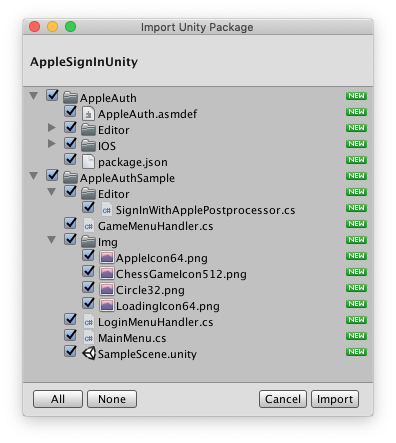
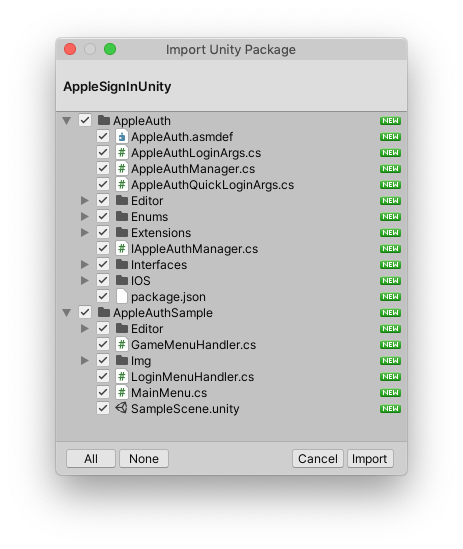
Updates README and CHANGELOG. Enhances deserialization fix method.

Changed region(s): [[0.0303, 0.0293, 0.9697, 0.9684]]

diff --git a/AppleAuth/IOS/NativeMessages/SerializationTools.cs b/AppleAuth/IOS/NativeMessages/SerializationTools.cs
@@ -22,13 +22,12 @@ namespace AppleAuth.IOS.NativeMessages
         
         internal static void FixSerializationForFullPersonName(ref FullPersonName originalFullPersonName)
         {
-            if (string.IsNullOrEmpty(originalFullPersonName.NamePrefix) && 
-                string.IsNullOrEmpty(originalFullPersonName.GivenName) && 
-                string.IsNullOrEmpty(originalFullPersonName.MiddleName) &&
-                string.IsNullOrEmpty(originalFullPersonName.FamilyName) &&
-                string.IsNullOrEmpty(originalFullPersonName.NameSuffix) &&
-                string.IsNullOrEmpty(originalFullPersonName.Nickname) &&
-                originalFullPersonName.PhoneticRepresentation == null)
+            if (string.IsNullOrEmpty(originalFullPersonName._namePrefix) && 
+                string.IsNullOrEmpty(originalFullPersonName._givenName) && 
+                string.IsNullOrEmpty(originalFullPersonName._middleName) &&
+                string.IsNullOrEmpty(originalFullPersonName._familyName) &&
+                string.IsNullOrEmpty(originalFullPersonName._nameSuffix) &&
+                string.IsNullOrEmpty(originalFullPersonName._nickname))
             {
                 originalFullPersonName = default(FullPersonName);
             }

diff --git a/CHANGELOG.md b/CHANGELOG.md
@@ -4,32 +4,30 @@
 ### Added
 - Adds a CHANGELOG.md file
 - Adds new v2 diagram files (`.drawio` and `.png`)
-- Adds structure containing arguments for Quick Login `AppleAuthQuickLoginArgs`.
-The structure contains an optional `Nonce`.
-- Adds structure containing arguments for Normal Login `AppleAuthLoginArgs`.
-The structure contains the mandatory `LoginOptions` an optional `Nonce`.
-- Adds support in native code to receive and set a `Nonce` for
-the Authorization Requests in both Quick Login and Sign in With Apple
+- Adds `AppleAuthQuickLoginArgs` struct containing arguments for Quick Login. (With optional `Nonce`)
+- Adds `AppleAuthLoginArgs` structure containing arguments for Normal Login like `LoginOptions`. (With optional `Nonce`)
+- Adds support in native code to receive and set a `Nonce` for the Authorization Requests in both Quick Login and Sign in With Apple
 - Adds `Update` method to `IAppleAuthManager` to update pending callbacks
 - Better API version handling in native objective-c code
 
 ### Changed
-- `QuickLogin` now requires a `AppleAuthQuickLoginArgs` to perform the call
-- `LoginWithAppleId` now requires a `AppleAuthLoginArgs` to perform the call
-- Updates main package file to include both `CHANGELOG.md` and `CHANGELOG.md.meta files`
-- Updates the sample project to better resemble the expected Apple flow
-- Updates README.md with up to date documentation
-- `AppleAuthManager` no longer requires a Scheduler, the scheduling is built in
-in the manager instance with the method `Update`
-- Some classes moved from `AppleAuth.IOS` to `AppleAuth` namespace
+- Namespace `AppleAuth.IOS` becomes `AppleAuth`
 - Namespace `AppleAuth.IOS.Enums` becomes `AppleAuth.Enums`
 - Namespace `AppleAuth.IOS.Extensions` becomes `AppleAuth.Extensions`
 - Namespace `AppleAuth.IOS.Interfaces` becomes `AppleAuth.Interfaces`
 - Namespace `AppleAuth.IOS.Interfaces` becomes `AppleAuth.Interfaces`
 
+- `QuickLogin` now requires a `AppleAuthQuickLoginArgs` to perform the call. Other `QuickLogin` method marked as obsolete.
+- `LoginWithAppleId` now requires a `AppleAuthLoginArgs` to perform the call. Other `LoginWithAppleId` method marked as obsolete.
+- `AppleAuthManager` no longer requires a Scheduler, the scheduling is built in the manager instance with the method `Update`
+- When receiving a completely empty `FullPersonName`, the instance is cleared after deserialization.
+
+- Updates main package file to include both `CHANGELOG.md` and `CHANGELOG.md.meta files`
+- Updates the sample project to better resemble the expected Apple flow
+- Updates README.md with up to date documentation
+
 ### Removed
-- Removes Schedulers to simplify the callback handling. Now only an `Update`
-call is required to be made to the `AppleAuthManager` instance in order to execute response callbacks.
+- Removes Schedulers to simplify the callback handling. `Update` call was moved to `IAppleAuthManager`.
 
 ## [1.0.0] - 2020-01-23
 - No plugin code changes. Just making the v1.0.0 release. No more "preview package"

diff --git a/README.md b/README.md
@@ -72,7 +72,6 @@ Sign in with Apple in order to get approved for the App Store, making it **manda
 - Supports setting custom Nonce for authorization requests when Signing In, and attempting a Quick Login.
 - NSError mapping so no details are missing.
 - NSPersonNameComponents support (for ALL different styles).
-- Customizable callback execution (Immediate or On Demand in an Update loop f.ex)
 - Customizable serialization (uses Unity default serialization, but you can add your own implementation)
 
 ## Installation
@@ -191,10 +190,14 @@ private IAppleAuthManager appleAuthManager;
 void Start()
 {
     ...
-    // Creates a default JSON deserializer, to transform JSON Native responses to C# instances
-    var deserializer = new PayloadDeserializer();
-    // Creates an Apple Authentication manager with the deserializer
-    this.appleAuthManager = new AppleAuthManager(deserializer);
+   // If the current platform is supported
+   if (AppleAuthManager.IsCurrentPlatformSupported)
+   {
+       // Creates a default JSON deserializer, to transform JSON Native responses to C# instances
+       var deserializer = new PayloadDeserializer();
+       // Creates an Apple Authentication manager with the deserializer
+       this.appleAuthManager = new AppleAuthManager(deserializer);    
+   }
     ...
 }
 
@@ -203,7 +206,10 @@ void Update()
     ...
     // Updates the AppleAuthManager instance to execute
     // pending callbacks inside Unity's execution loop
-    this.appleAuthManager.Update();
+    if (this.appleAuthManager != null)
+    {
+        this.appleAuthManager.Update();
+    }
     ...
 }
 ```
